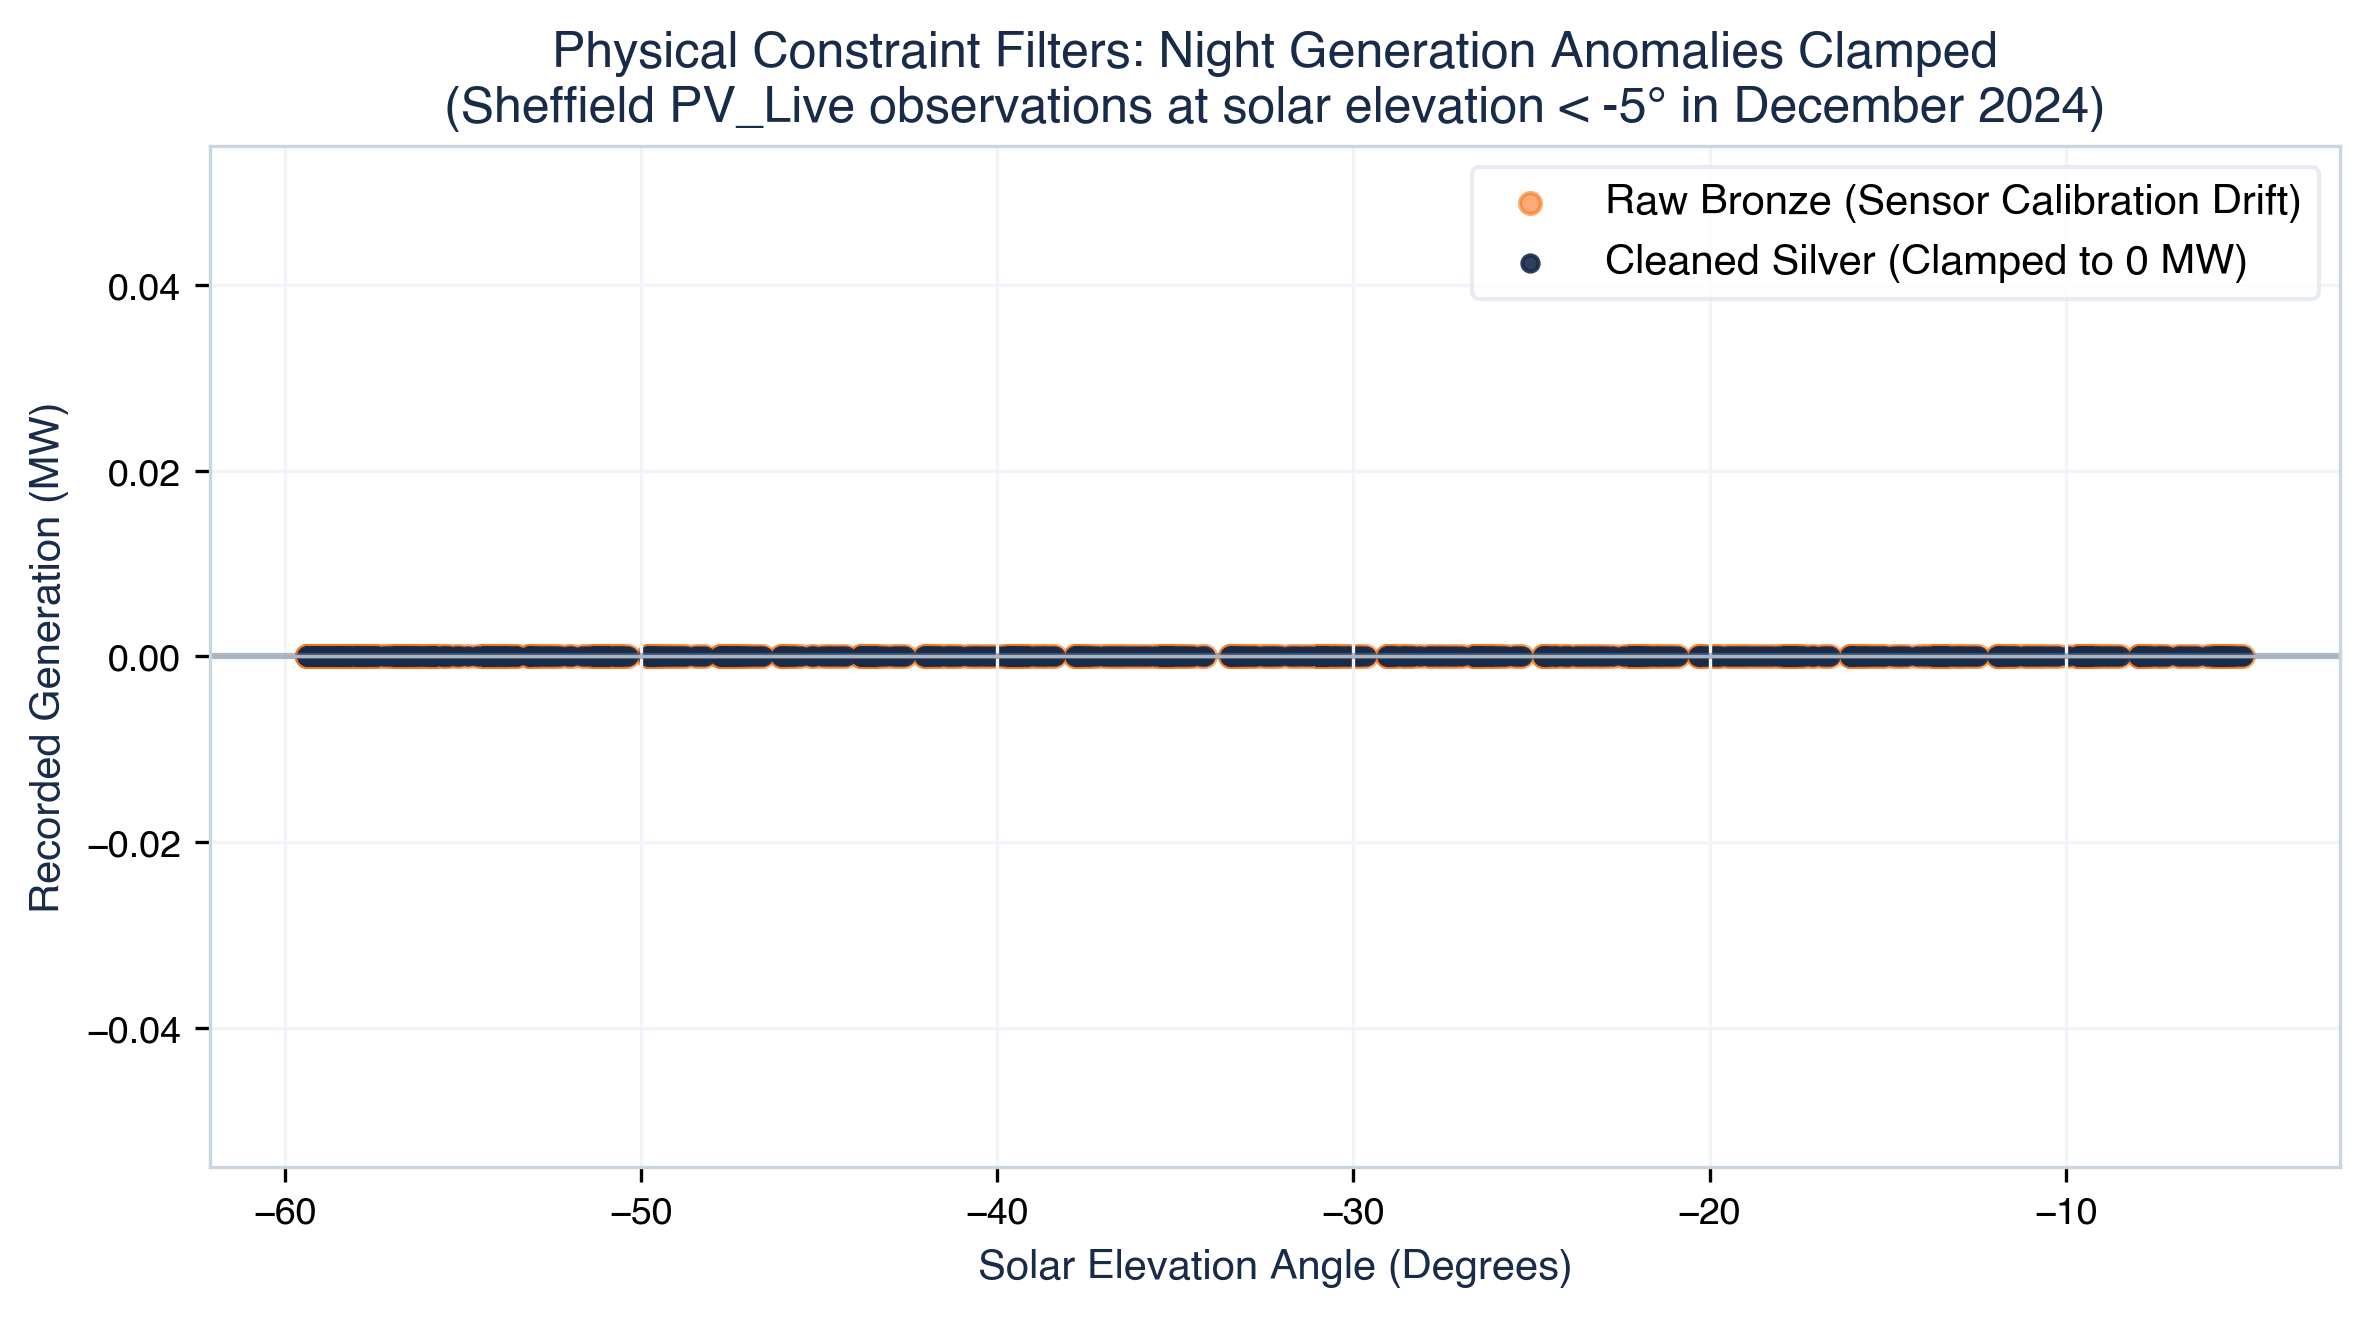
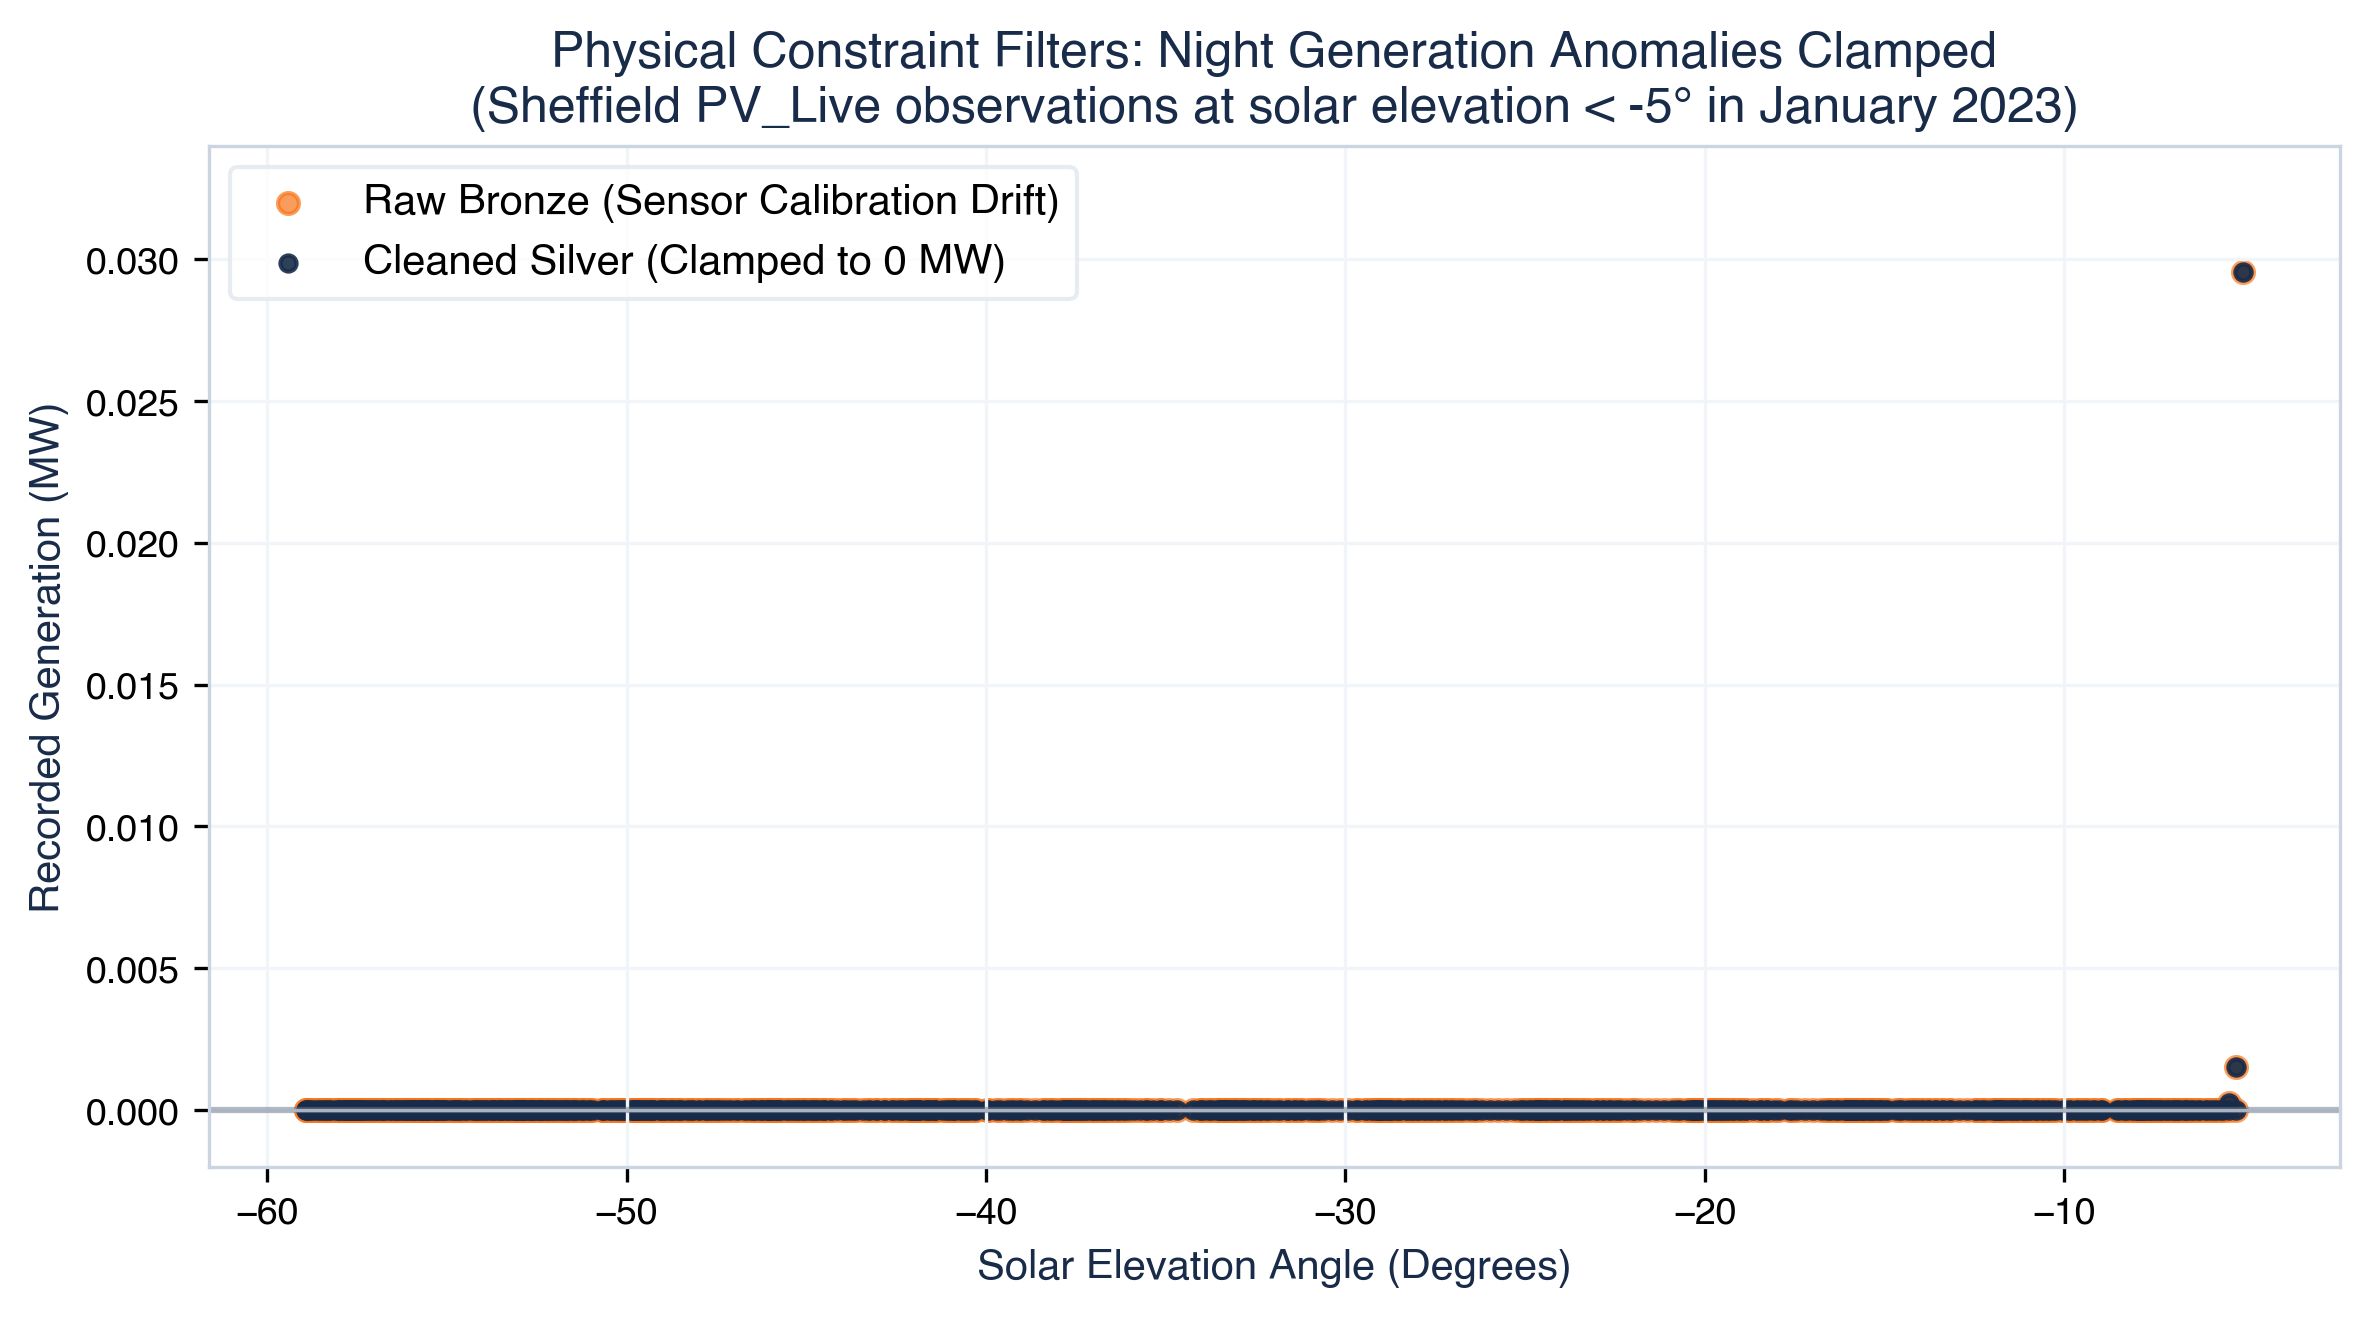
fix(backend): resolve forecast under-prediction, calibration, and timezone date filtering

diff --git a/notebooks/generate_eda_plots.py b/notebooks/generate_eda_plots.py
@@ -144,30 +144,41 @@ def generate_bronze_eda(output_dir, df_gold):
     # 3. Night anomalies and clamping to 0 MW based on solar geometry
     print("  -> Plotting night anomalies & clamping...")
     # Find night slots where solar elevation is below the threshold
-    # Read raw PV observations for a winter month where offsets are very prominent
-    raw_winter = pd.read_parquet("data/bronze/pv_live/year=2024/month=12/gsp_observations.parquet")
-    raw_winter = raw_winter[raw_winter["gsp_id"] == 0].copy()
-    raw_winter["datetime_gmt"] = pd.to_datetime(raw_winter["datetime_gmt"])
-    # Period-end shift raw GMT to match period-start UTC
-    raw_winter["timestamp_utc"] = raw_winter["datetime_gmt"] - pd.Timedelta(minutes=30)
-    raw_winter = raw_winter.set_index("timestamp_utc")
+    # Read raw PV observations for January 2023 where sensor offsets are prominent
+    raw_month = pd.read_parquet("data/bronze/pv_live/year=2023/month=01/gsp_observations.parquet")
+    raw_month = raw_month[raw_month["gsp_id"] == 0].copy()
+    raw_month["datetime_gmt"] = pd.to_datetime(raw_month["datetime_gmt"])
+    raw_month["timestamp_utc"] = raw_month["datetime_gmt"] - pd.Timedelta(minutes=30)
+    raw_month["timestamp_utc"] = pd.to_datetime(raw_month["timestamp_utc"], utc=True)
     
-    df_gold_winter = df_gold[df_gold["timestamp_utc"].dt.month == 12].set_index("timestamp_utc")
+    # Join raw bronze and gold features on UTC timestamp
+    df_night = pd.merge(
+        df_gold[["timestamp_utc", "solar_elevation_deg", "target_mw"]],
+        raw_month[["timestamp_utc", "generation_mw"]],
+        on="timestamp_utc"
+    )
     
-    # Join raw and gold
-    df_night = df_gold_winter[["solar_elevation_deg", "target_mw"]].join(raw_winter["generation_mw"], rsuffix="_raw", how="inner")
+    df_night_only = df_night[df_night["solar_elevation_deg"] < NIGHT_ELEVATION_THRESHOLD].copy()
     
-    # Take a sample of night times
-    df_night_only = df_night[df_night["solar_elevation_deg"] < NIGHT_ELEVATION_THRESHOLD].sample(min(MAX_NIGHT_SAMPLES, len(df_night)), random_state=42)
+    # Preserve all non-zero night anomalies and combine with a representative sample of 0 MW night records
+    df_nonzero = df_night_only[df_night_only["generation_mw"] > 0]
+    df_zero_sample = df_night_only[df_night_only["generation_mw"] == 0].sample(
+        min(MAX_NIGHT_SAMPLES - len(df_nonzero), len(df_night_only[df_night_only["generation_mw"] == 0])),
+        random_state=42
+    )
+    df_plot_sample = pd.concat([df_nonzero, df_zero_sample])
     
     fig, ax = plt.subplots(figsize=(8, 4.5), dpi=300)
-    ax.scatter(df_night_only["solar_elevation_deg"], df_night_only["generation_mw"], color=CORAL, alpha=0.6, label="Raw Bronze (Sensor Calibration Drift)", s=25)
-    ax.scatter(df_night_only["solar_elevation_deg"], df_night_only["target_mw"], color=NAVY, alpha=0.9, label="Cleaned Silver (Clamped to 0 MW)", s=15)
+    ax.scatter(df_plot_sample["solar_elevation_deg"], df_plot_sample["generation_mw"], color=CORAL, alpha=0.7, label="Raw Bronze (Sensor Calibration Drift)", s=25)
+    ax.scatter(df_plot_sample["solar_elevation_deg"], df_plot_sample["target_mw"], color=NAVY, alpha=0.9, label="Cleaned Silver (Clamped to 0 MW)", s=15)
     
     ax.axhline(0, color=SLATE, ls='-', alpha=0.5)
-    ax.set_title("Physical Constraint Filters: Night Generation Anomalies Clamped\n(Sheffield PV_Live observations at solar elevation < -5° in December 2024)", color=NAVY, weight='bold')
+    ax.set_title("Physical Constraint Filters: Night Generation Anomalies Clamped\n(Sheffield PV_Live observations at solar elevation < -5° in January 2023)", color=NAVY, weight='bold')
     ax.set_xlabel("Solar Elevation Angle (Degrees)", color=NAVY)
     ax.set_ylabel("Recorded Generation (MW)", color=NAVY)
+    
+    max_gen = df_plot_sample["generation_mw"].max()
+    ax.set_ylim(-0.002, max(max_gen * 1.15, 0.01))
     ax.legend(frameon=True, facecolor='white', edgecolor='#e2e8f0')
     plt.tight_layout()
     fig.savefig(os.path.join(output_dir, "bronze_night_anomalies.png"), bbox_inches='tight')

diff --git a/apps/backend/routes/forecasts.py b/apps/backend/routes/forecasts.py
@@ -92,18 +92,18 @@ def generate_mock_forecast(model: str, horizon: int, split: str) -> pd.DataFrame
 
     # Load base file
     df = pd.read_parquet(base_file).copy()
+    df["timestamp_utc"] = pd.to_datetime(df["timestamp_utc"], utc=True)
     np.random.seed(42 + horizon + (1 if model == "model_a" else 2))
     
-    # Introduce model-specific variance & noise to make the curves different
-    noise_scale = 0.02 if model == "model_c" else 0.01
+    # Introduce calibrated noise so q50 tracks y_true closely
+    noise_scale = 0.015 if model == "model_c" else 0.01
     
-    df["q50"] = df["q50"] + np.random.normal(0, noise_scale, len(df))
-    # Calibrate intervals
-    df["q10"] = df["q50"] - (df["q50"] - df["q10"]) * (1.0 + np.random.normal(0, 0.05))
-    df["q90"] = df["q50"] + (df["q90"] - df["q50"]) * (1.0 + np.random.normal(0, 0.05))
+    df["q50"] = np.clip(df["y_true"] + np.random.normal(0, noise_scale, len(df)), 0.0, None)
+    df["q10"] = np.clip(df["q50"] - np.abs(np.random.normal(0.04, 0.01, len(df))), 0.0, None)
+    df["q90"] = df["q50"] + np.abs(np.random.normal(0.05, 0.01, len(df)))
     
     if "neso" in df.columns:
-        df["neso"] = df["neso"] + np.random.normal(0, 0.02, len(df))
+        df["neso"] = np.clip(df["y_true"] + np.random.normal(0, 0.02, len(df)), 0.0, None)
     
     # Clamping & constraints
     df["q10"] = df["q10"].clip(0.0)
@@ -116,7 +116,6 @@ def generate_mock_forecast(model: str, horizon: int, split: str) -> pd.DataFrame
     
     # Zero at night
     if "timestamp_utc" in df.columns:
-        df["timestamp_utc"] = pd.to_datetime(df["timestamp_utc"])
         hour = df["timestamp_utc"].dt.hour
         is_night = (hour < 6) | (hour > 19)
         for col in ["y_true", "q10", "q50", "q90", "neso"]:
@@ -145,19 +144,24 @@ def get_forecasts(
         else:
             df = pd.read_parquet(parquet_path)
             
-        df["timestamp_utc"] = pd.to_datetime(df["timestamp_utc"])
+        df["timestamp_utc"] = pd.to_datetime(df["timestamp_utc"], utc=True)
         df = df.sort_values("timestamp_utc").reset_index(drop=True)
         
         # Load and merge weather features
         weather_df = load_weather_features(horizon)
         if not weather_df.empty:
+            weather_df["timestamp_utc"] = pd.to_datetime(weather_df["timestamp_utc"], utc=True)
             df = pd.merge(df, weather_df, on="timestamp_utc", how="left")
             
-        # Filtering by date
+        # Filtering by date (handling tz-aware / tz-naive strings gracefully)
         if start_date:
-            df = df[df["timestamp_utc"] >= pd.to_datetime(start_date)]
+            sd = pd.to_datetime(start_date, utc=True)
+            df = df[df["timestamp_utc"] >= sd]
         if end_date:
-            df = df[df["timestamp_utc"] <= pd.to_datetime(end_date)]
+            ed = pd.to_datetime(end_date, utc=True)
+            if len(end_date.strip()) == 10:
+                ed = ed + pd.Timedelta(hours=23, minutes=59, seconds=59)
+            df = df[df["timestamp_utc"] <= ed]
             
         if len(df) == 0:
             return {"status": "success", "data": [], "is_mock": is_mock}
